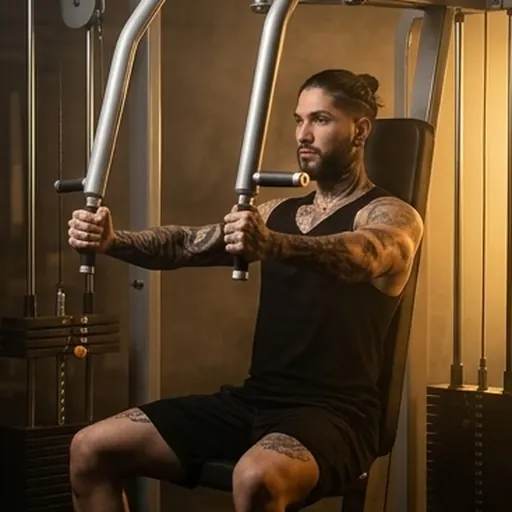
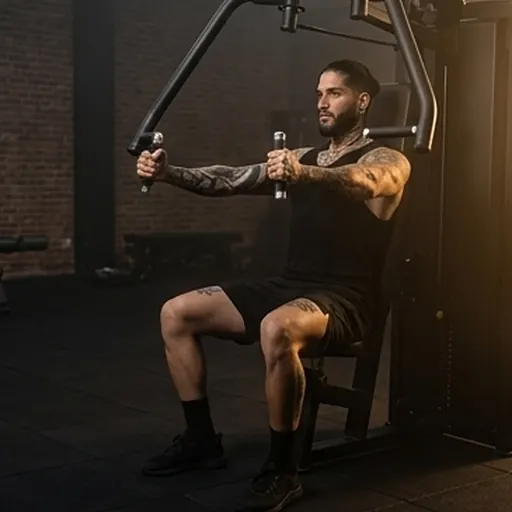
Fotos de ejercicios: rehechas las 7 en las que la mirada iba contra el movimiento

diff --git a/gym-app/src/db/seedPhotos.ts b/gym-app/src/db/seedPhotos.ts
@@ -3,7 +3,7 @@ import type { ExercisePhoto } from '../types'
 
 // Bump when the bundled exercise art changes: factory photos of an older
 // version are replaced on the next start, photos the user took never are.
-const SEED_PHOTO_VERSION = 2
+const SEED_PHOTO_VERSION = 3
 
 // Exercise name (exact match) -> public/exercise-photos/<file>.webp.
 // 'hombre/…' = photos with Jonathan as the model (Gemini, 2026-10-18); the rest
